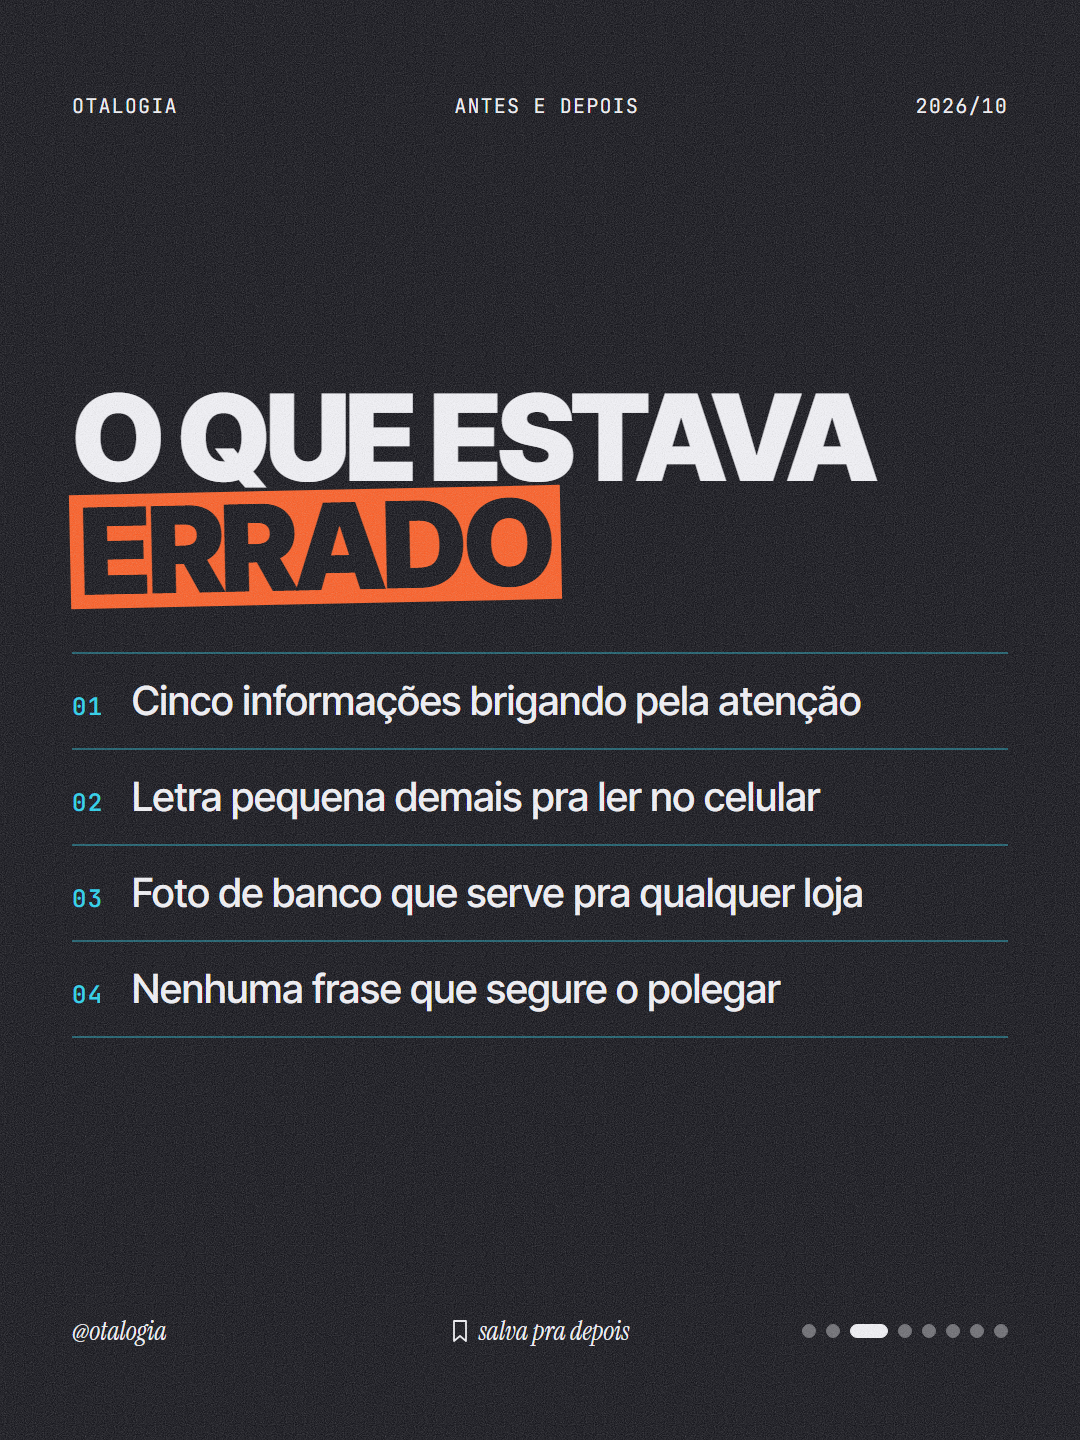
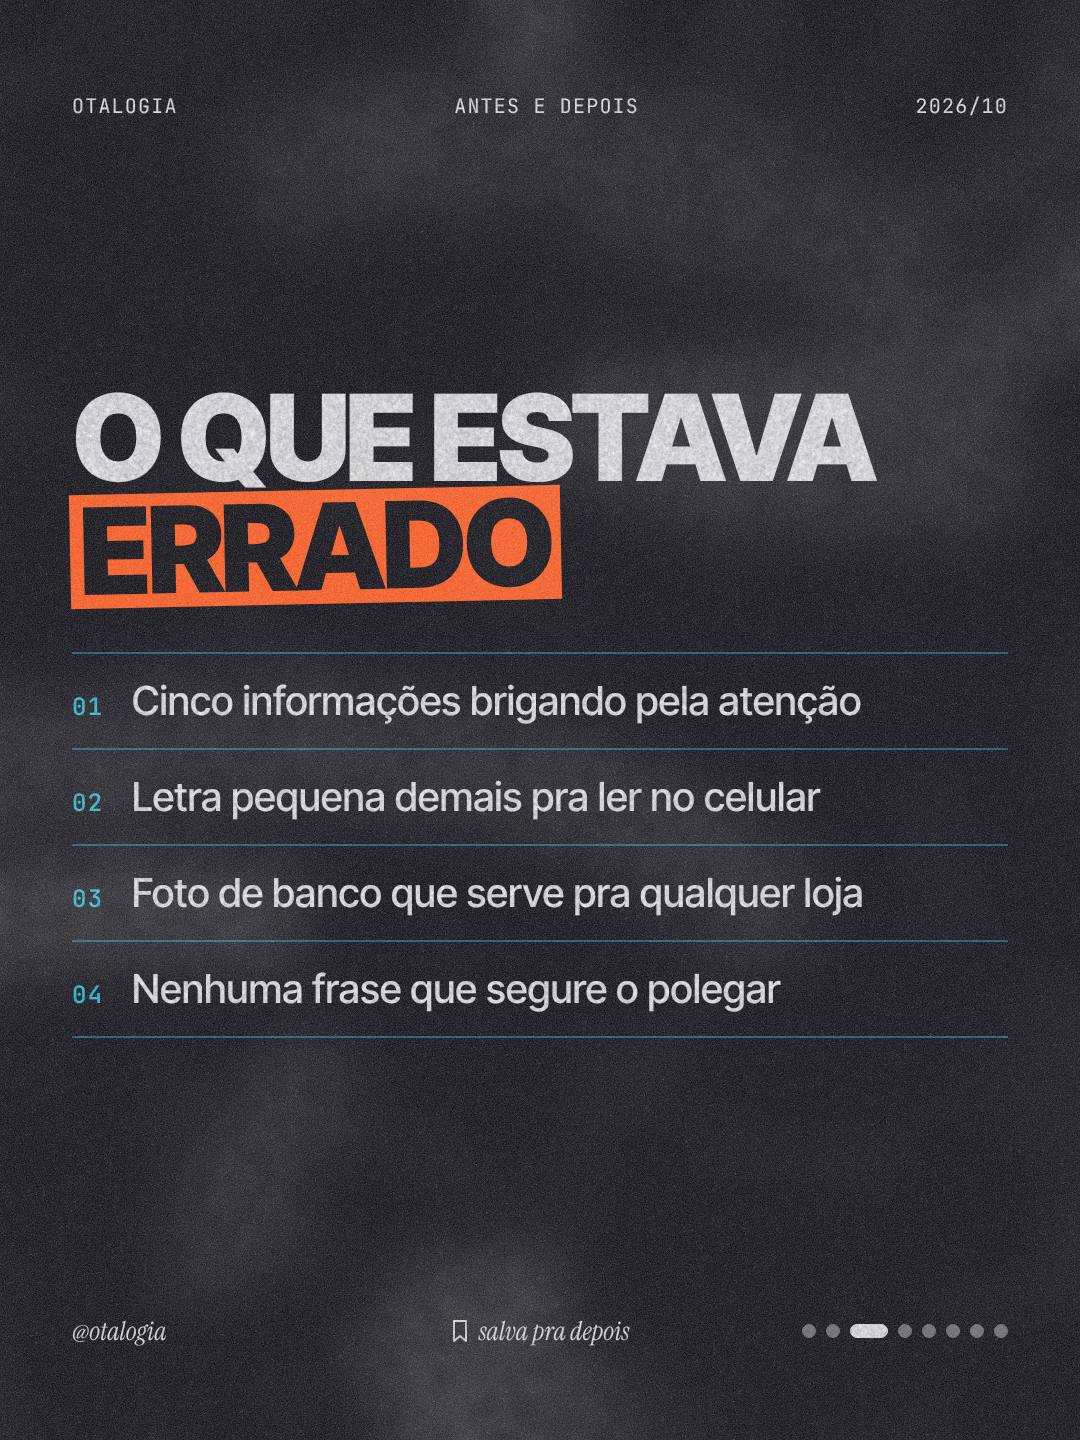
feat(motor): quadro-negro no slide 3 só de texto (cor da marca)
- motor/filtro_quadro.py (o mesmo da engine aidealab): giz apagado, pó de giz,
  letras com falhas de giz
- render.py: "quadro_slide3": true no tema aplica no slide 3 quando é T2/T2c/T3 sem
  imagem; tema otalogia liga; 15 slides 3 re-renderizados (T5 de referência fica)
- atualizar_cta_drive.py também sobe o slide 3

Claude-Session: https://claude.ai/code/session_012KyAE6tAMb32gBy6Q61w6r

diff --git a/motor/filtro_quadro.py b/motor/filtro_quadro.py
@@ -1,0 +1,47 @@
+"""
+Filtro "quadro-negro" (aprovado 2026-10-08, na cor da marca): marcas de giz apagado (arcos borrados do apagador),
+pó de giz, letras claras com falhas finas de giz e grão. A cor do fundo do slide é mantida. Determinístico (seed fixa).
+Aplicado no slide 3 inteiro quando ele é só de texto.
+
+Uso: python filtro_quadro.py <entrada> [saida]   (sem saida = sobrescreve)
+"""
+import sys
+
+import numpy as np
+from PIL import Image, ImageDraw, ImageFilter
+
+
+def _manchas(rng, w, h):
+    im = Image.new("L", (w, h), 0)
+    d = ImageDraw.Draw(im)
+    for _ in range(14):
+        cx, cy, r = rng.uniform(-200, w + 200), rng.uniform(-200, h + 200), rng.uniform(250, 700)
+        a0 = rng.uniform(0, 360)
+        d.arc([cx - r, cy - r * 0.6, cx + r, cy + r * 0.6], a0, a0 + rng.uniform(40, 140),
+              fill=int(rng.uniform(40, 110)), width=int(rng.uniform(60, 160)))
+    im = im.filter(ImageFilter.GaussianBlur(28))
+    n = Image.fromarray((rng.random((h // 8, w // 8)) * 255).astype("uint8")).resize((w, h), Image.BICUBIC).filter(ImageFilter.GaussianBlur(6))
+    m = np.asarray(im) / 255 * (0.55 + 0.9 * np.asarray(n) / 255)
+    nuvem = np.asarray(Image.fromarray((rng.random((h // 40, w // 40)) * 255).astype("uint8")).resize((w, h), Image.BICUBIC).filter(ImageFilter.GaussianBlur(30))) / 255
+    return np.clip(m * 0.9 + (nuvem - 0.5).clip(0) * 0.25, 0, 1)
+
+
+def quadro(im, seed=5):
+    rng = np.random.default_rng(seed)
+    a = np.asarray(im.convert("RGB")).astype(float) / 255
+    h, w = a.shape[:2]
+    texto = (a @ [0.2126, 0.7152, 0.0722]) > 0.55  # letras e marca-texto claros = giz
+    po = (rng.random((h, w)) > 0.985) * rng.uniform(0.05, 0.25, (h, w))
+    giz = np.asarray(Image.fromarray((po * 255).astype("uint8")).filter(ImageFilter.GaussianBlur(0.7))) / 255
+    camada = _manchas(rng, w, h) * 0.34 + giz
+    a = 1 - (1 - a) * (1 - camada[..., None])  # screen: pó branco sobre a lousa
+    falha = np.asarray(Image.fromarray((rng.random((h, w)) * 255).astype("uint8")).filter(ImageFilter.GaussianBlur(0.9))) / 255
+    a = a * np.where(texto, 0.72 + 0.34 * falha, 1)[..., None]
+    a += rng.normal(0, 0.018, (h, w))[..., None]
+    return Image.fromarray((a.clip(0, 1) * 255).astype("uint8"))
+
+
+if __name__ == "__main__":
+    if len(sys.argv) < 2:
+        sys.exit(__doc__)
+    quadro(Image.open(sys.argv[1])).save(sys.argv[2] if len(sys.argv) > 2 else sys.argv[1])

diff --git a/automation/atualizar_cta_drive.py b/automation/atualizar_cta_drive.py
@@ -1,5 +1,5 @@
-"""Atualiza no Drive o slide CTA (último PNG) dos carrosséis da otalogia já enviados, com o render atual do repo
-(halftone no CTA inteiro). Procura a pasta pelo nome do carrossel em Clientes/otalogia/04-Carrosseis e em
+"""Atualiza no Drive o slide CTA (último PNG, halftone) e o slide 3 só de texto (quadro-negro) dos carrosséis da
+otalogia já enviados, com o render atual do repo. Procura a pasta pelo nome do carrossel em Clientes/otalogia/04-Carrosseis e em
 06-Aprovados-para-Postar (e nas subpastas dela) e sobe o PNG como nova revisão do mesmo arquivo (o histórico do
 Drive guarda a versão anterior). Roda no GitHub Actions (workflow atualizar-cta-drive.yml, secrets GOOGLE_DRIVE_*).
 
@@ -30,16 +30,20 @@ def main():
         cj = d / "carrossel.json"
         if not cj.exists() or d.name not in pastas:
             continue
-        cta = f"slide-{len(json.loads(cj.read_text(encoding='utf-8'))['slides']):02d}.png"
-        local = d / "png" / cta
-        fid = filhos(svc, pastas[d.name]).get(cta)
-        if not local.exists() or not fid:
-            print("pula:", d.name, cta, "(sem arquivo local ou no Drive)")
-            continue
-        print("CTA:", d.name, cta)
-        if not DRY:
-            svc.files().update(fileId=fid, media_body=MediaFileUpload(str(local), mimetype="image/png")).execute()
-        feitos += 1
+        slides = json.loads(cj.read_text(encoding="utf-8"))["slides"]
+        alvos = [f"slide-{len(slides):02d}.png"]
+        if len(slides) > 3 and slides[2].get("template") in ("T2", "T2c", "T3") and not slides[2].get("imagem"):
+            alvos.append("slide-03.png")
+        no_drive = filhos(svc, pastas[d.name])
+        for arq in alvos:
+            local, fid = d / "png" / arq, no_drive.get(arq)
+            if not local.exists() or not fid:
+                print("pula:", d.name, arq, "(sem arquivo local ou no Drive)")
+                continue
+            print("atualiza:", d.name, arq)
+            if not DRY:
+                svc.files().update(fileId=fid, media_body=MediaFileUpload(str(local), mimetype="image/png")).execute()
+            feitos += 1
     print("total:", feitos)
 
 

diff --git a/motor/render.py b/motor/render.py
@@ -22,6 +22,7 @@ from PIL import Image
 from playwright.sync_api import sync_playwright
 
 from filtro_halftone import halftone
+from filtro_quadro import quadro
 
 W, H = 1080, 1440
 AQUI = Path(__file__).resolve().parent
@@ -112,6 +113,9 @@ def main():
         png.write_bytes(b)
         if tema.get("halftone_cta") and i == len(shots):  # halftone no CTA inteiro, letras incluídas
             halftone(Image.open(png)).save(png)
+        s3 = data["slides"][2] if len(shots) > 3 else {}
+        if tema.get("quadro_slide3") and i == 3 and s3.get("template") in ("T2", "T2c", "T3") and not s3.get("imagem"):
+            quadro(Image.open(png)).save(png)  # quadro-negro no slide 3 só de texto
         pngs.append(png)
     for png in pngs:
         assert Image.open(png).size == (W, H), f"{png} fora de {W}x{H}"

diff --git a/design-system/templates/templates.md b/design-system/templates/templates.md
@@ -63,6 +63,7 @@ A virada/insight.
 - Display + serifada grande sobreposta (a palavra-emoção "pendurada" na margem), com a conclusão em serifada itálica abaixo.
 
 ## T3 — Ink (miolo técnico/diagrama)
+- Slide 3 só de texto: quadro-negro na cor da marca no slide inteiro (`motor/filtro_quadro.py`, aprovado 2026-10-08), pelo `"quadro_slide3": true` do `tema.json`.
 
 Prova, números, processo, listas.
 - Fundo ink `#0B0B12` com grão.
